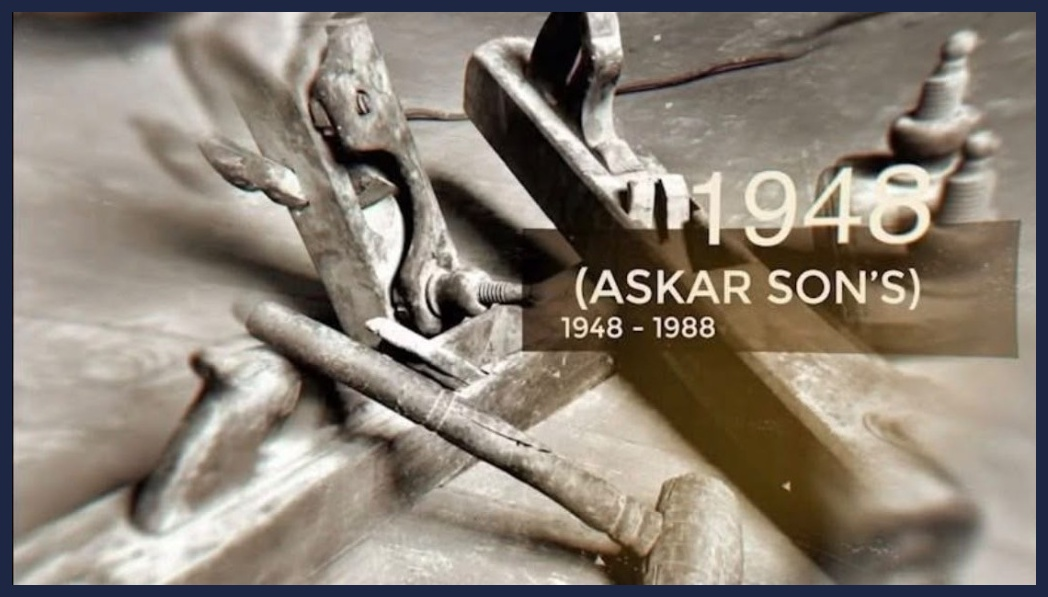
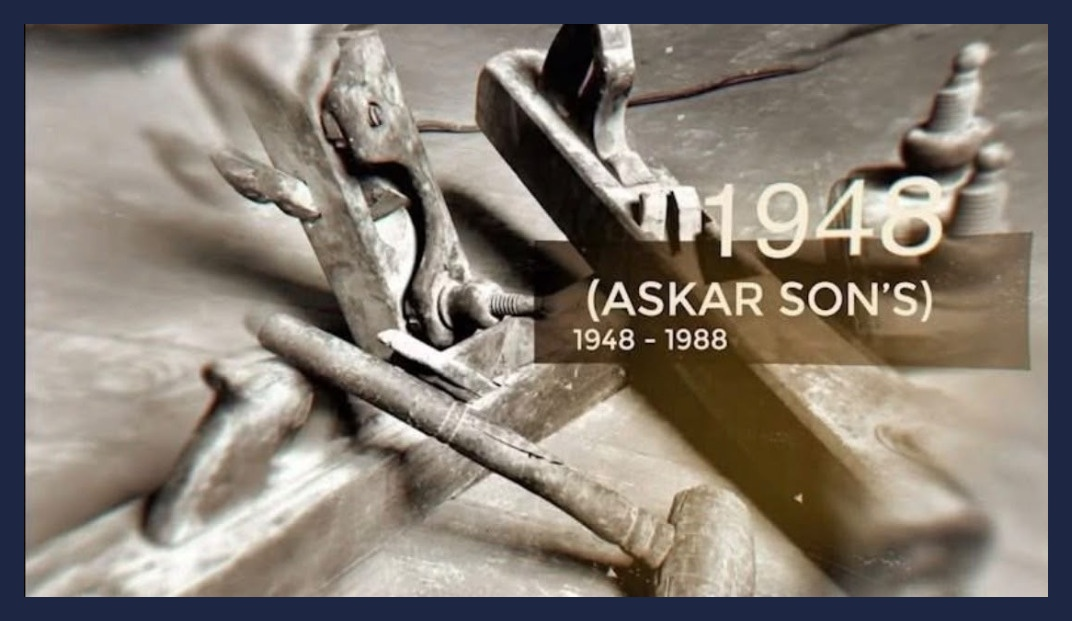
style: make Prime Navy border wider on 1948 heritage photo

diff --git a/src/components/AboutPage.jsx b/src/components/AboutPage.jsx
@@ -66,7 +66,7 @@ export default function AboutPage() {
         {/* Story Chapter 1: The Cairo Heritage */}
         <div className="grid grid-cols-1 lg:grid-cols-12 gap-12 lg:gap-16 items-center">
           <div className="lg:col-span-6 relative">
-            <div className="aspect-[16/10] bg-[#FAF8F5] border-2 sm:border-4 border-[#1D2743] overflow-hidden shadow-lg">
+            <div className="aspect-[16/10] bg-[#FAF8F5] border-[6px] sm:border-[10px] lg:border-[12px] border-[#1D2743] overflow-hidden shadow-lg">
               <img
                 src="/images/heritage-1948.jpg"
                 alt="Prime Wooden Work 1948 Askar Sons Cairo Workshop Heritage"
